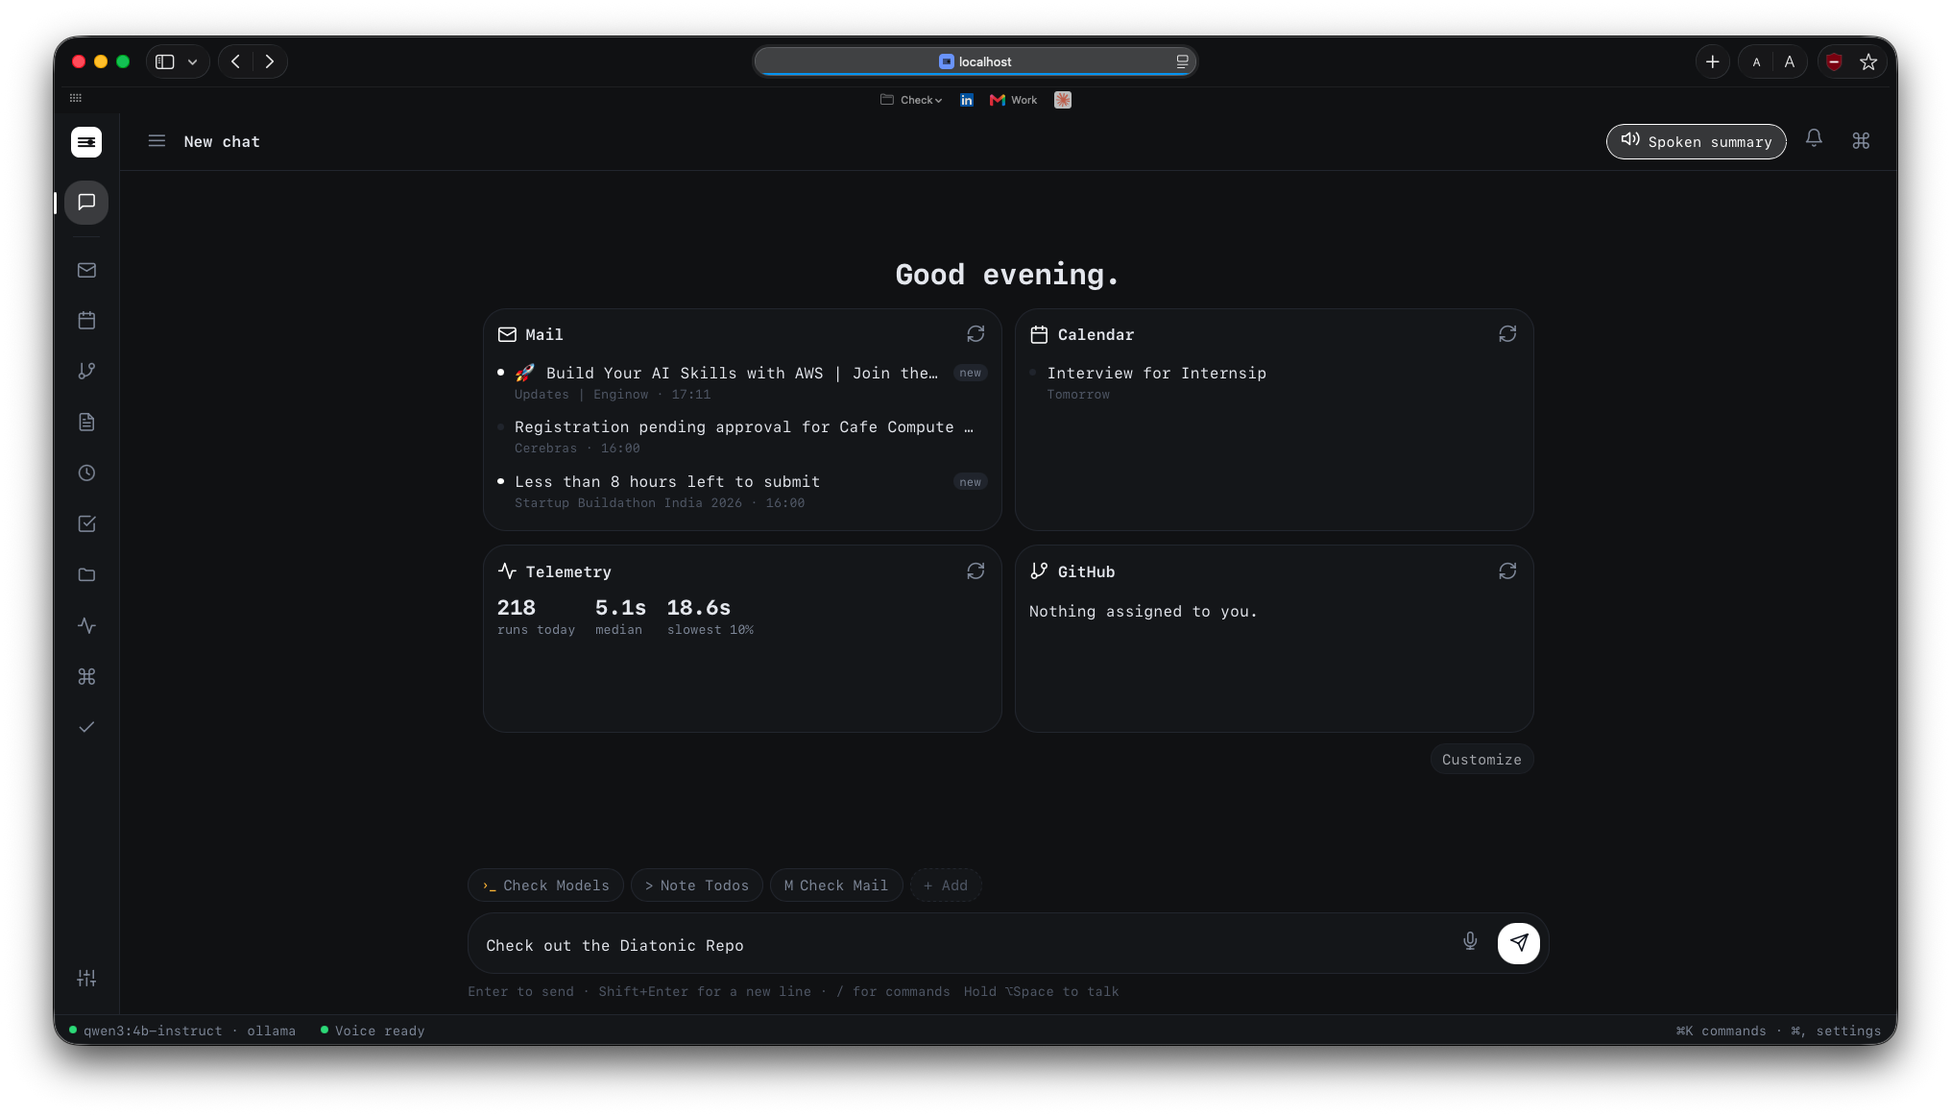
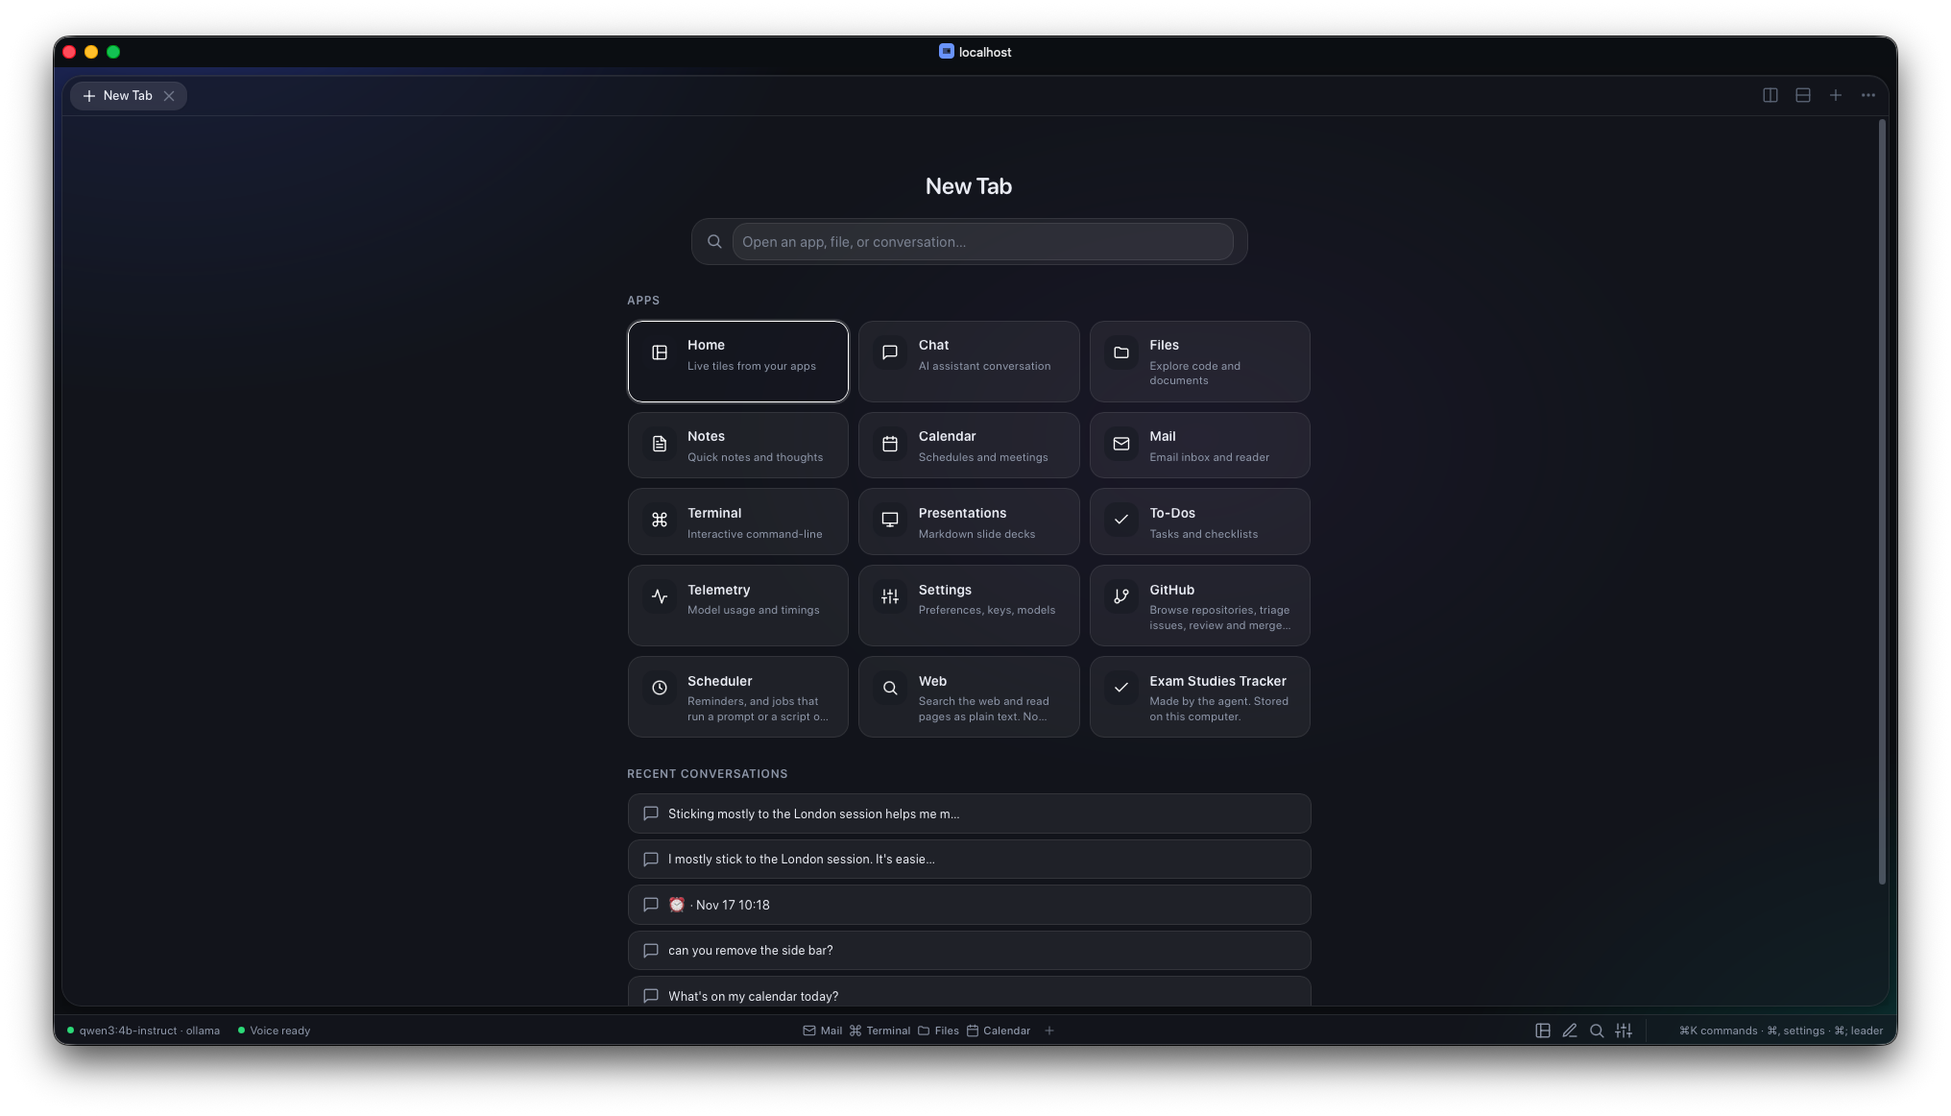
readne

diff --git a/diatonic/web/css/app.css b/diatonic/web/css/app.css
@@ -83,11 +83,22 @@ svg.i { width: 18px; height: 18px; stroke: currentColor; fill: none; stroke-widt
 /* messages */
 .messages { flex: 1; overflow-y: auto; padding: 24px 0 8px; scroll-behavior: smooth; }
 .msg { max-width: var(--content-w, 780px); margin: 0 auto; padding: 8px 24px; animation: rise .25s ease both; }
+.msg:has(.cursor) { animation: none; }
 @keyframes rise { from { opacity: 0; transform: translateY(6px); } to { opacity: 1; transform: none; } }
 .msg.user { display: flex; justify-content: flex-end; }
 .msg.user .bubble { background: var(--surface-3); padding: 10px 14px; border-radius: calc(16px * var(--rs, 1)) calc(16px * var(--rs, 1)) calc(4px * var(--rs, 1)) calc(16px * var(--rs, 1)); max-width: 85%; white-space: pre-wrap; word-break: break-word; }
 .msg.assistant .body { min-height: 1.5em; }
-.msg.assistant .body.streaming:empty::after, .cursor::after { content: "▍"; color: var(--accent); animation: blink 1s steps(2) infinite; }
+.msg.assistant .body.streaming:empty::after,
+.cursor:empty::after,
+.cursor > :last-child:not(ul):not(ol):not(table):not(pre)::after,
+.cursor > ul > li:last-child::after,
+.cursor > ol > li:last-child::after,
+.cursor > pre code::after {
+  content: "▍";
+  color: var(--accent);
+  animation: blink 1s steps(2) infinite;
+  margin-left: 2px;
+}
 @keyframes blink { 50% { opacity: 0; } }
 .md > :first-child { margin-top: 0; } .md > :last-child { margin-bottom: 0; }
 .md p { margin: .6em 0; } .md ul, .md ol { margin: .5em 0; padding-left: 1.4em; } .md li { margin: .2em 0; }

diff --git a/diatonic/web/js/chat.js b/diatonic/web/js/chat.js
@@ -36,7 +36,12 @@ function renderEmpty() {
 
 /* ---------- rendering ---------- */
 const nearBottom = () => msgs.scrollHeight - msgs.scrollTop - msgs.clientHeight < 140;
-const scroll = (force) => { if (force || nearBottom()) msgs.scrollTo({ top: msgs.scrollHeight }); };
+const scroll = (force, smooth = false) => {
+  if (force || nearBottom()) {
+    try { msgs.scrollTo({ top: msgs.scrollHeight, behavior: smooth ? "smooth" : "instant" }); }
+    catch { msgs.scrollTop = msgs.scrollHeight; }
+  }
+};
 const appName = (id) => state.apps.find((a) => a.id === id)?.name || id || "Tool";
 const MENTION = /(?<![\w/@])@(?:"([^"]+)"|(\S+))/g;
 function userBubble(text) {

diff --git a/diatonic/agent/loop.py b/diatonic/agent/loop.py
@@ -58,6 +58,20 @@ def is_navigation(text: str) -> bool:
     return bool(_NAV.match(text)) and not _NAV_NOT.search(text)
 
 
+# "rephrase this", "proofread this email", "translate this to French": textual tasks do not expect tools.
+_TEXT_TASK = re.compile(
+    r"\b(?:rephrase|rewrite|paraphrase|reword|proofread|correct (?:the )?grammar|fix (?:the )?grammar|"
+    r"translate|summarize (?:this|the following)|shorten (?:this|the)|expand on (?:this|the)|"
+    r"polish (?:this|the)|make (?:this|the) (?:more|sound)|edit this)\b",
+    re.I,
+)
+_ACTION_AND = re.compile(r"\b(?:and|then)\s+(?:send|save|create|run|schedule|add|delete|remove|open)\b", re.I)
+
+
+def is_text_task(text: str) -> bool:
+    return bool(_TEXT_TASK.search(text)) and not bool(_ACTION_AND.search(text))
+
+
 # "summarize this", "reply to it", "delete that one": the user means what is open on their screen.
 _DEICTIC = re.compile(r"\b(?:this|that|it|these|those|here|current(?:ly)?|opened|on (?:the )?screen)\b", re.I)
 
@@ -148,7 +162,8 @@ def select_tools(registry, text: str, prior_apps: set[str], force: set[str] | fr
         if len(json.dumps([tool_spec(a, t) for a, t in every.values()])) <= FALLBACK_ALL_CHARS:
             return every, False          # few tools in total: offering them all is cheap and safest
         return rank_tools(registry, text), False
-    return {f"{a.id}_{t.name}": (a, t) for a in chosen for t in a.tools_for(text, prior_tools)}, bool(named)
+    return {f"{a.id}_{t.name}": (a, t) for a in chosen for t in a.tools_for(text, prior_tools)}, bool(named) and not is_text_task(text)
+
 
 
 TRACE_TURNS = 1       # how many of the most recent tool-using answers keep their tool trace in context
@@ -459,7 +474,7 @@ async def run_agent(ctx, registry, conv_id: str, text: str, *, speak: bool = Fal
         on_screen = ""
     if on_screen and screen_app in hidden:   # don't put an email subject or note title in a cloud prompt
         on_screen = screen_line(registry, {k: v for k, v in screen.items() if k != "title"})[0]
-    if attachments:   # the user attached what the answer needs, so a no-tool reply is legitimate (no 'call a tool' nudge)
+    if attachments or is_text_task(text):   # textual tasks or user attachments: a no-tool reply is legitimate (no 'call a tool' nudge)
         expects_tool = False
     if readonly:  # unattended runs may only read; nothing can be changed without a person present
         tool_map = {n: (a, t) for n, (a, t) in tool_map.items() if (not t.needs_approval or t.ask) and a.id not in hidden}
@@ -488,6 +503,7 @@ async def run_agent(ctx, registry, conv_id: str, text: str, *, speak: bool = Fal
     tokens = 0
     options: dict | None = None
     forced = finished = False
+    nudged_draft = ""
 
     def note(kind: str, message: str) -> dict:
         guards.append(message)
@@ -541,7 +557,7 @@ async def run_agent(ctx, registry, conv_id: str, text: str, *, speak: bool = Fal
                     if why:
                         guard.nudged = True  # once per run
                         if content.strip():   # the discarded draft must not appear twice (live view, stored chat)
-                            texts.pop()
+                            nudged_draft = texts.pop()
                             yield {"type": "rewrite", "text": ""}
                         messages += [{"role": "assistant", "content": content}, {"role": "user", "content": why}]
                         continue
@@ -594,6 +610,12 @@ async def run_agent(ctx, registry, conv_id: str, text: str, *, speak: bool = Fal
         ctx.db.add_message(conv_id, "assistant", partial, {"tools": list(cards.values()), "stopped": True, "guards": guards})
         raise
 
+    if nudged_draft and not used_tools:
+        # If the model didn't call tools after the nudge and responded with a meta-explanation that no tool was needed,
+        # restore the actual first draft so the user's answer is not lost.
+        if re.search(r"\b(?:no tool(?:s)? (?:call|were|was|needed|necessary|is needed|was needed|are needed)|accurately rephrased)\b", texts[-1] if texts else "", re.I):
+            texts = [nudged_draft]
+            yield {"type": "rewrite", "text": nudged_draft}
     final = collapse_repeats(texts[-1] if used_tools and texts else "\n\n".join(texts))
     if not final and not error:
         final = _fallback(list(cards.values()))

diff --git a/tests/test_guards.py b/tests/test_guards.py
@@ -354,3 +354,42 @@ def test_real_loops_are_still_caught():
     assert detect_loop("Here is the update. " + long + long) is not None                    # a long sentence straight again
     cyc = "Checking your calendar for tomorrow now. Looking at all accounts to be sure. "
     assert detect_loop(cyc * 3 + "Checking") is not None
+
+
+def test_text_rephrase_task_is_not_nudged_even_with_app_keywords(env, monkeypatch):
+    ctx, _, _, db = env
+    from diatonic.apps.registry import Registry
+    reg = Registry(ctx).discover()
+    prompt = ("I mostly stick to the London session. It's easier to build a routine, and it helps me avoid taking "
+              "unnecessary trades. Trading all day can get exhausting pretty quickly\n"
+              "rephrase this without changing the core content")
+    rephrased = ("I primarily focus on the London session because it's easier to establish a consistent routine, "
+                 "which helps me avoid unnecessary trades. Trading throughout the day can get exhausting quickly.")
+    p = ScriptedProvider([[{"content": rephrased}]])
+    monkeypatch.setattr(loop, "make_provider", lambda c: p)
+    conv = db.create_conversation()
+    async def go():
+        return [e async for e in loop.run_agent(ctx, reg, conv["id"], prompt)]
+    ev = asyncio.run(go())
+    assert len(p.seen) == 1
+    assert [e for e in ev if e["type"] == "message"][0]["text"] == rephrased
+    assert not any(e["type"] == "rewrite" for e in ev)
+
+
+def test_nudged_defensive_reply_restores_original_draft(env, monkeypatch):
+    ctx, _, _, db = env
+    from diatonic.apps.registry import Registry
+    reg = Registry(ctx).discover()
+    prompt = "terminal status"
+    draft = "Here is your terminal information."
+    defense = "No tool call was needed because this is a straightforward task. The original message has been accurately rephrased."
+    p = ScriptedProvider([[{"content": draft}], [{"content": defense}]])
+    monkeypatch.setattr(loop, "make_provider", lambda c: p)
+    conv = db.create_conversation()
+    async def go():
+        return [e async for e in loop.run_agent(ctx, reg, conv["id"], prompt)]
+    ev = asyncio.run(go())
+    assert [e for e in ev if e["type"] == "message"][0]["text"] == draft
+
+
+

diff --git a/diatonic/apps/shell/app.py b/diatonic/apps/shell/app.py
@@ -32,7 +32,8 @@ class ShellApp(App):
     untrusted_tools = ["run"]       # command output can contain text written by others (logs, downloads)
     keywords = ["shell", "terminal", "command", "commands", "run", "git", "npm", "pip", "brew", "install", "installed", "process", "processes",
                 "space", "disk", "size", "largest", "how big", "directory", "script", "python", "node", "uv", "docker", "port", "ollama",
-                "build", "tests", "version", "versions", "running", "cpu", "memory usage", "uptime"]
+                "tests", "version", "versions", "running", "cpu", "memory usage", "uptime"]
+    keyword_patterns = [r"\b(?:(?:cargo|npm|pnpm|yarn|make|ninja|gradle|mvn|dotnet|go|docker)\s+build|(?:run|start|trigger|rebuild)\s+(?:the\s+)?build|build\s+(?:the\s+)?(?:project|repo|package|code|binary))\b"]
 
     def __init__(self, ctx):
         super().__init__(ctx)

diff --git a/README.md b/README.md
@@ -2,7 +2,7 @@
 
 **A local agent harness for your day-to-day apps.** Diatonic is everything around the model that turns it into a useful agent: the apps and tools, the agent loop, approvals, guardrails, memory and the interface. Plug in a small local model (or Gemini, or Groq) and it becomes an assistant for your mail, calendar, files, notes, to-dos, GitHub and terminal.
 
-![Diatonic's home screen: live tiles for mail, calendar, telemetry and GitHub, with the chat below](docs/images/Home.png)
+![Diatonic workspace: multi-panel layout with Files, Terminal, Chat, and Notes side by side](docs/images/Multi%20Panel.png)
 
 Everything runs locally at **http://localhost:5005**. The model is interchangeable; the harness is what makes even a 4B model reliable: it picks the few tools each request needs, checks and repairs tool arguments, cuts off loops, asks before anything that matters, and keeps private data away from cloud models. On top of that, the agent can change its own interface and build you new apps.
 
@@ -10,26 +10,30 @@ Everything runs locally at **http://localhost:5005**. The model is interchangeab
 
 <table>
 <tr>
-<td width="50%"><img src="docs/images/Calendar.png" alt="Calendar: month view across two Google accounts"><br><b>Calendar and Mail</b>: any number of Google accounts, a Google-Calendar-style view and a Gmail-style inbox. Create events by hand or by asking.</td>
-<td width="50%"><img src="docs/images/File%20Explorer.png" alt="Files: browsing a shared project folder"><br><b>Files</b>: browse shared folders, view code, Markdown and PDFs, reference files in chat with <code>@</code>, and let the agent edit them (it shows you the diff first).</td>
+<td width="50%"><img src="docs/images/Agent.png" alt="Diatonic agent home screen with live tiles for telemetry, to-dos, GitHub, and notes"><br><b>Agent & live tiles</b>: ask the agent anything or use quick actions, with live snapshots for telemetry, to-dos, GitHub and notes.</td>
+<td width="50%"><img src="docs/images/Home.png" alt="New Tab app launcher and recent conversations"><br><b>App launcher</b>: fast new-tab grid to launch any built-in app, user-built data app, or resume recent conversations.</td>
 </tr>
 <tr>
-<td><img src="docs/images/Notes.png" alt="Notes: a Markdown checklist note"><br><b>Notes, to-dos and reminders</b>: plain Markdown notes, to-dos with due dates, reminders and scheduled jobs that run a prompt or a script.</td>
-<td><img src="docs/images/Telemetry.png" alt="Telemetry: speed and reliability of recent runs"><br><b>Telemetry</b>: how fast and reliable the agent is: time per run, where the time goes, cache reuse, tool errors.</td>
+<td><img src="docs/images/Scheduler.png" alt="Scheduler: reminders and recurring jobs"><br><b>Reminders & jobs</b>: plain-English reminders, scheduled prompt jobs with unattended permissions, and recurring script jobs.</td>
+<td><img src="docs/images/Web%20Search.png" alt="Web search and plain text reader"><br><b>Web search</b>: text-first web search and page reader that extracts clean content without browser overhead.</td>
 </tr>
 <tr>
-<td><img src="docs/images/Mail.png" alt="Asking Diatonic to summarise the last 10 hours of mail across two Gmail accounts"><br><b>Just ask</b>: "summarise the mails from the last 10 hours" reads both Gmail accounts and answers in the format you asked for.</td>
-<td><img src="docs/images/Settings.png" alt="Settings: interface options"><br><b>Make it yours</b>: themes, layout and quick actions, or just ask the agent ("make the accent green", "add a button that opens my files").</td>
+<td><img src="docs/images/Command%20Bar.png" alt="Command palette: quick navigation and keyboard actions"><br><b>Command palette</b>: ⌘K palette for rapid keyboard navigation, app switching, panel splits, and shortcuts.</td>
+<td><img src="docs/images/Layouts.png" alt="Layout presets and saved workspaces"><br><b>Custom layouts</b>: presets (single, split, stacked, grid) or save named layouts (Dev, Study, Work) to switch anytime.</td>
+</tr>
+<tr>
+<td colspan="2"><img src="docs/images/Actions.png" alt="Settings: custom actions and saved prompts"><br><b>Custom actions & prompts</b>: create saved prompts with placeholders like <code>{{input}}</code>, custom <code>/</code> slash commands, and script buttons.</td>
 </tr>
 <tr>
 <td colspan="2">
 <b>Also</b>
 
+- **Calendar and Mail**: Google Calendar and Gmail across multiple accounts with sandboxed email reading
+- **Files**: browse shared folders, code syntax highlighting, Markdown/PDF viewer, and safe diff-based editing
 - A real **terminal** (tabs, vim, htop), and shell commands for the agent if you allow it
 - **Apps the agent builds** from a sentence: trackers and lists, or apps on a web API
 - **Local or cloud models** (Ollama, Gemini, Groq), switchable from the status bar
 - **Voice**: push-to-talk dictation and short spoken summaries, all local
-- **Home screen tiles** with live snapshots from your apps, in the layout you choose
 - **Parallel chats** that keep running in the background
 </td>
 </tr>

diff --git a/docs/apps.md b/docs/apps.md
@@ -34,6 +34,8 @@ Open **Files** (folder icon in the left rail) and share one or more folders (sug
 
 ## Web
 
+![Web search: clean text search results and page reader](images/Web%20Search.png)
+
 Search the web and read pages as plain text. The agent has `web_search` (titles, links, snippets) and `web_read` (a page's text and links, cut to the page size limit in Settings → Web). The panel does the same for you: type words to search, or paste an address to open it.
 
 - **No browser:** pages are fetched and reduced to text. Pages that need JavaScript or a login come back empty or refused.
@@ -45,6 +47,9 @@ Search the web and read pages as plain text. The agent has `web_search` (titles,
 Say what you want in plain words ("remind me to call mom tomorrow at 9", "every weekday at 8 give me my to-do briefing", "add a to-do to send the invoice by Friday", "jot down that the wifi password is on the fridge") or use the panels in the left rail.
 
 **Scheduler** (`clock` icon)
+
+![Scheduler: reminders, recurring prompt jobs, and script jobs](images/Scheduler.png)
+
 - **Reminders:** a notification at a time you give. Times are parsed by code, not by the model: `in 20 minutes`, `tomorrow 9am`, `friday 5pm`, `2026-11-20 15:00`, `every weekday at 9`, `every 30 minutes`, `monthly on the 1st at 8am` or a 5-field cron like `0 9 * * 1-5`. A bare hour without am/pm is read as pm from 1 to 7 ("at 5" means 5 pm) 8 to 11 as am, and 12 as noon; when that rule was used the agent tells you the exact time it set, so say "7am" if you meant the morning.
 - **Prompt jobs:** run an AI prompt on a schedule in their own chat (named `⏰ <job> · <time>`) and notify you with the result. They are **read-only**: the tools that change things aren't even offered. In the panel you can tick *Allow it to propose changes*; writes then still need approval, a notification ("A scheduled job needs your approval") points you to the waiting card, and with nobody there it times out and is denied. Only the UI can grant this, never the agent. With shell access on, a prompt job may run read-only commands plus the exact commands listed under *Commands it may run unattended* (see [Terminal and shell access](#terminal-and-shell-access)).
 - **Script jobs:** run a shell command on a schedule (timeout, killed as a whole process group, minimal environment, output captured, notification on failure). **Off by default**: turn them on in Settings → Automation. If the agent proposes one you get an approval card with the exact command.
@@ -59,9 +64,13 @@ Say what you want in plain words ("remind me to call mom tomorrow at 9", "every 
 
 ## Home screen
 
-![Home screen with tiles for mail, calendar, telemetry and GitHub](images/Home.png)
+![Home screen: live tiles for telemetry, to-dos, GitHub and notes](images/Agent.png)
 
 An empty chat shows live tiles from your apps: to-dos, calendar, latest mail, upcoming reminders and jobs, GitHub issues assigned to you, a telemetry summary, recent notes, and the apps you built (progress for data apps, the latest values for API apps). Click an item to open it in its app. **Customize** (below the tiles) picks the layout, 4 small, 2 stacked, 2 side by side or 1 big (or the old suggestion chips), and the app in each tile; or ask the agent ("put my mail and GitHub issues side by side on the home screen"). Tiles refresh every two minutes and when their app's data changes; mail and GitHub are cached for a minute. Any app can offer a tile by implementing `snapshot(n)`.
+
+![New Tab: app launcher and recent conversations](images/Home.png)
+
+The **New Tab** page (or the Home icon) provides a fast launcher across all built-in apps, custom data apps, and recent conversations with quick search filtering.
 
 ## Terminal and shell access
 

diff --git a/docs/panels.md b/docs/panels.md
@@ -45,7 +45,11 @@ A panel body is wrapped in `.panel-body`, whose generic form rules (border, back
 
 ## Layouts
 
+![Multi-panel workspace layout with split panes and tabs](images/Multi%20Panel.png)
+
 A **layout** is how the panels are arranged: the tree of splits and tabs and the app in each. There is one word and one way to keep one:
+
+![Layout presets and saved arrangements](images/Layouts.png)
 
 - **By mouse:** the layout button at the bottom right of the window opens the Layouts menu: presets as thumbnails, a name box to save the current layout, your saved layouts (click to switch, trash icon to delete, asked in place), undo, redo and reopen a closed tab. Settings → Layouts shows the same. Everything below also has a command.
 - Arrange it with presets (`layout.preset.*`), splits, drag and drop, or the agent (`ui_arrange_panels`); `layout.undo` and `layout.redo` step through changes.

diff --git a/docs/customizing.md b/docs/customizing.md
@@ -76,6 +76,8 @@ Keys are kept in the keychain, one per API host, never in `config.json` or a pro
 
 ## Make it yours: quick actions, `/` commands and interface
 
+![Creating a custom action with saved prompt and parameters](images/Actions.png)
+
 **Saved prompts and script buttons** (Settings → Actions, or **+ Add** on the bar above the message box). Each one can be a chip on the bar, a `/command`, a keyboard shortcut, or all three.
 
 - **Saved prompt:** text that is dropped into the message box (so you can tweak it) or sent straight away, optionally in a fresh chat. Placeholders: `{{input}}` (whatever you type after the command), `{{date}}`, `{{time}}`, `{{day}}`, `{{clipboard}}`. Example: `/summarize <paste text>` fills in `Summarize in 3 bullets: …`. A chip whose prompt needs `{{input}}` asks for it first.

diff --git a/docs/keyboard.md b/docs/keyboard.md
@@ -4,6 +4,8 @@ Everything the interface can do is a **command** with an id (`chat.new`, `panel.
 
 ## Basics
 
+![Command palette with quick actions and keyboard shortcuts](images/Command%20Bar.png)
+
 | Key | What it does |
 |---|---|
 | ⌘K | Command palette. Type a few letters (`gcal` finds Google Calendar); things you use often rise to the top. |
